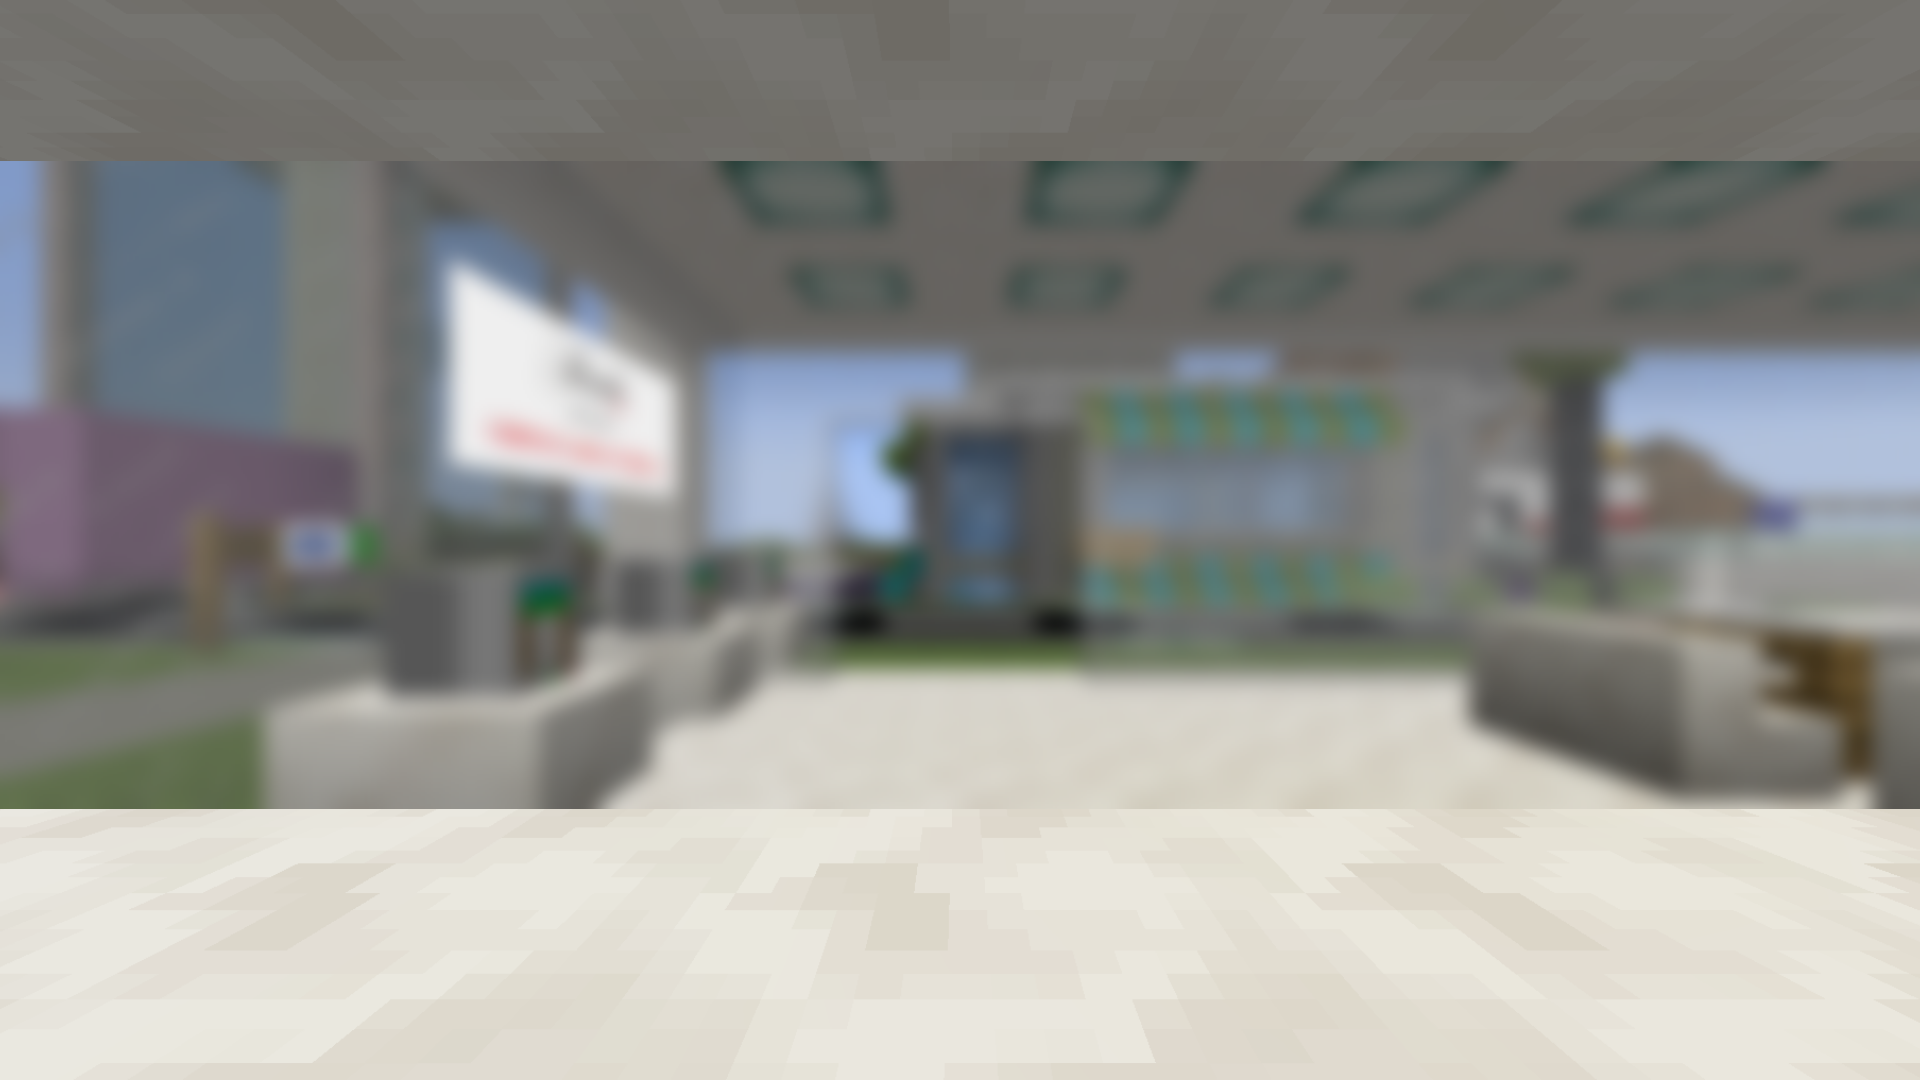
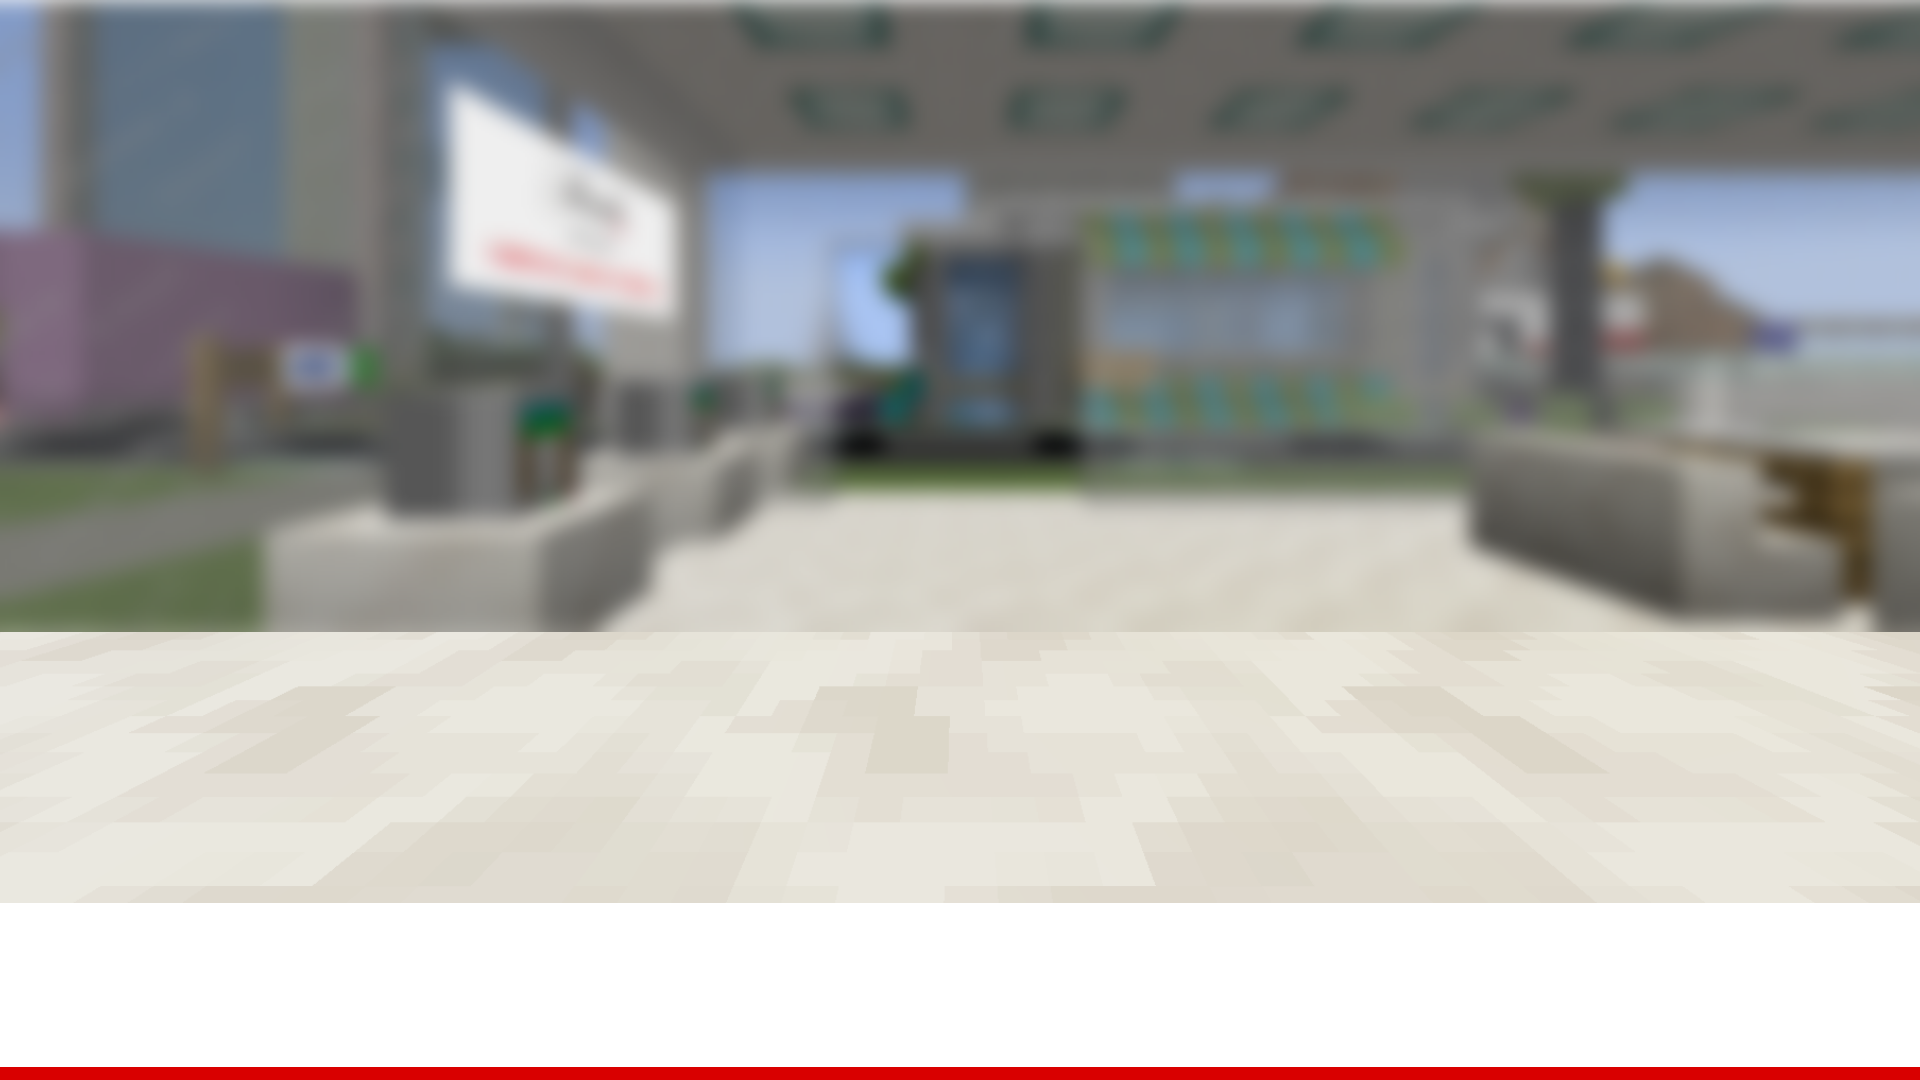
Make items size agnostic

diff --git a/FrivoloCo/Screens/Play/Items/Item.cs b/FrivoloCo/Screens/Play/Items/Item.cs
@@ -15,9 +15,13 @@ namespace FrivoloCo.Screens.Play.Items
 
         public virtual string Name => "Placeholder";
 
-        public Item(string texturePath, bool isBeingDragged) : base(texturePath)
+        private GameState state;
+
+        public Item(string texturePath, bool isBeingDragged, GameState state) : base(texturePath)
         {
+            RelativePosition = new(0, 0, 120, 230);
             IsBeingDragged = isBeingDragged;
+            this.state = state;
         }
 
         public override void Initialize()
@@ -39,7 +43,10 @@ namespace FrivoloCo.Screens.Play.Items
         private void Input_PrimaryMouseButtonUp(object sender, Water.Input.MousePressEventArgs e)
         {
             if (Game.Input.IsMouseWithin(this))
+            {
                 IsBeingDragged = false;
+                state.CurrentlyDraggedItem = null;
+            }
         }
 
         public override void Deinitialize()
@@ -53,14 +60,17 @@ namespace FrivoloCo.Screens.Play.Items
         {
             if (IsBeingDragged)
             {
+                state.CurrentlyDraggedItem = this;
                 var pos = Game.Input.GetMousePositionRelativeTo(Parent);
-                RelativePosition = new(pos.X - 60, pos.Y - 115, 120, 230);
+                RelativePosition = new(pos.X - (RelativePosition.Width / 2), pos.Y - (RelativePosition.Height / 2), RelativePosition.Width, RelativePosition.Height);
             }
             else
             {
                 if (Parent is not null)
-                    if (RelativePosition.Y <= Parent.ActualPosition.Height - 230)
-                        RelativePosition = new(RelativePosition.X, RelativePosition.Y + 1, 120, 230);
+                {
+                    if (RelativePosition.Y <= Parent.ActualPosition.Height - state.TableTopOffset + RelativePosition.Height)
+                        RelativePosition = new(RelativePosition.X, RelativePosition.Y + 1, RelativePosition.Width, RelativePosition.Height);
+                }
             }
             base.Update(gameTime);
         }

diff --git a/FrivoloCo/Screens/Play/GameScreen.cs b/FrivoloCo/Screens/Play/GameScreen.cs
@@ -17,8 +17,8 @@ namespace FrivoloCo.Screens.Play
 {
     public class GameScreen : Screen
     {
-        private GameState state;
-        public GameScreen(GameState state)
+        private ProgressState state;
+        public GameScreen(ProgressState state)
         {
             this.state = state;
         }
@@ -65,11 +65,11 @@ namespace FrivoloCo.Screens.Play
 
             AddChild(rc);
 
-            co.AddChild(Game.AddObject(new ItemDispenser(ItemType.Placeholder)
+            co.AddChild(Game.AddObject(new ItemDispenser(ItemType.Tray, State)
             {
                 Layout = Layout.AnchorBottom,
-                RelativePosition = new(50, 0, 120, 230)
             }));
+            CalculateChildrenPositions();
             // HUD
             var moneyBox = new Box()
             {
@@ -114,17 +114,17 @@ namespace FrivoloCo.Screens.Play
                 ScreenManager.ChangeScreen(new MenuScreen());
             }
             else if (e.Key == Microsoft.Xna.Framework.Input.Keys.F5)
-                ScreenManager.ChangeScreen(new GameScreen(new GameState()));
+                ScreenManager.ChangeScreen(new GameScreen(new ProgressState()));
         }
 
-        private double timeLeft = 120000; // 2 minutes in milliseconds
+        public GameState State { get; private set; } = new();
 
         public override void Update(GameTime gameTime)
         {
-            timeLeft -= gameTime.ElapsedGameTime.TotalMilliseconds;
+            State.TimeLeft -= gameTime.ElapsedGameTime.TotalMilliseconds;
 
             moneyTb.Text = $"${state.Money:0..00}";
-            statusTb.Text = $"Day {state.Day}    {timeLeft} (<- placeholder)";
+            statusTb.Text = $"Day {state.Day}    {State.TimeLeft} (<- placeholder)";
         }
     }
 }

diff --git a/FrivoloCo/Screens/Play/Items/ItemDispenser.cs b/FrivoloCo/Screens/Play/Items/ItemDispenser.cs
@@ -13,10 +13,12 @@ namespace FrivoloCo.Screens.Play.Items
     public class ItemDispenser : GameObject
     {
         private ItemType type;
+        private GameState state;
 
-        public ItemDispenser(ItemType type)
+        public ItemDispenser(ItemType type, GameState state)
         {
             this.type = type;
+            this.state = state;
         }
 
         public override void Deinitialize()
@@ -34,6 +36,8 @@ namespace FrivoloCo.Screens.Play.Items
             Game.Input.PrimaryMouseButtonDown += Input_PrimaryMouseButtonDown;
 
             var x = GetItemForItemType(type);
+
+            RelativePosition = x.RelativePosition;
 
             var sp = new Sprite(x.Path)
             {
@@ -71,12 +75,14 @@ namespace FrivoloCo.Screens.Play.Items
 
         private Item GetItemForItemType(ItemType type) => type switch
         {
-            ItemType.Placeholder or _ => new Item("Assets/Gameplay/Items/placeholder.png", true)
+            ItemType.Tray => new Tray(true, state),
+            ItemType.Placeholder or _ => new Item("Assets/Gameplay/Items/placeholder.png", true, state)
         };
     }
 
     public enum ItemType
     {
+        Tray,
         Placeholder
     }
 }

diff --git a/FrivoloCo/Screens/Play/GameState.cs b/FrivoloCo/Screens/Play/GameState.cs
@@ -1,4 +1,5 @@
-using System;
+using FrivoloCo.Screens.Play.Items;
+using System;
 using System.Collections.Generic;
 using System.Linq;
 using System.Text;
@@ -8,8 +9,10 @@ namespace FrivoloCo.Screens.Play
 {
     public class GameState
     {
-        public int Day { get; set; } = 1;
+        public double TimeLeft { get; set; } = 120000; // 2 minutes in milliseconds
 
-        public decimal Money { get; set; } = 1;
+        public double TableTopOffset { get; set; } = 448; // Pixels to top edge of visible table
+
+        public Item CurrentlyDraggedItem { get; set; } = null;
     }
 }

diff --git a/FrivoloCo/Screens/Play/Items/Tray.cs b/FrivoloCo/Screens/Play/Items/Tray.cs
@@ -1,0 +1,18 @@
+using System;
+using System.Collections.Generic;
+using System.Linq;
+using System.Text;
+using System.Threading.Tasks;
+
+namespace FrivoloCo.Screens.Play.Items
+{
+    public class Tray : Item
+    {
+        public override string Name => "Tray";
+
+        public Tray(bool isBeingDragged, GameState state) : base("Assets/Gameplay/tray.png", isBeingDragged, state)
+        {
+            RelativePosition = new(0, 0, 437, 72);
+        }
+    }
+}

diff --git a/FrivoloCo/Screens/Menu/GamemodeScreen.cs b/FrivoloCo/Screens/Menu/GamemodeScreen.cs
@@ -77,7 +77,7 @@ namespace FrivoloCo.Screens.Menu
 
             if (counter <= 0)
             {
-                ScreenManager.ChangeScreen(new PreGameScreen(new GameState()));
+                ScreenManager.ChangeScreen(new PreGameScreen(new ProgressState()));
                 beginGame = false;
                 return;
             }

diff --git a/FrivoloCo/Screens/Play/PreGameScreen.cs b/FrivoloCo/Screens/Play/PreGameScreen.cs
@@ -15,9 +15,9 @@ namespace FrivoloCo.Screens.Play
 {
     public class PreGameScreen : Screen
     {
-        private GameState state;
+        private ProgressState state;
 
-        public PreGameScreen(GameState state)
+        public PreGameScreen(ProgressState state)
         {
             this.state = state;
         }

diff --git a/FrivoloCo/Screens/Play/ProgressState.cs b/FrivoloCo/Screens/Play/ProgressState.cs
@@ -1,0 +1,15 @@
+using System;
+using System.Collections.Generic;
+using System.Linq;
+using System.Text;
+using System.Threading.Tasks;
+
+namespace FrivoloCo.Screens.Play
+{
+    public class ProgressState
+    {
+        public int Day { get; set; } = 1;
+
+        public decimal Money { get; set; } = 1;
+    }
+}
